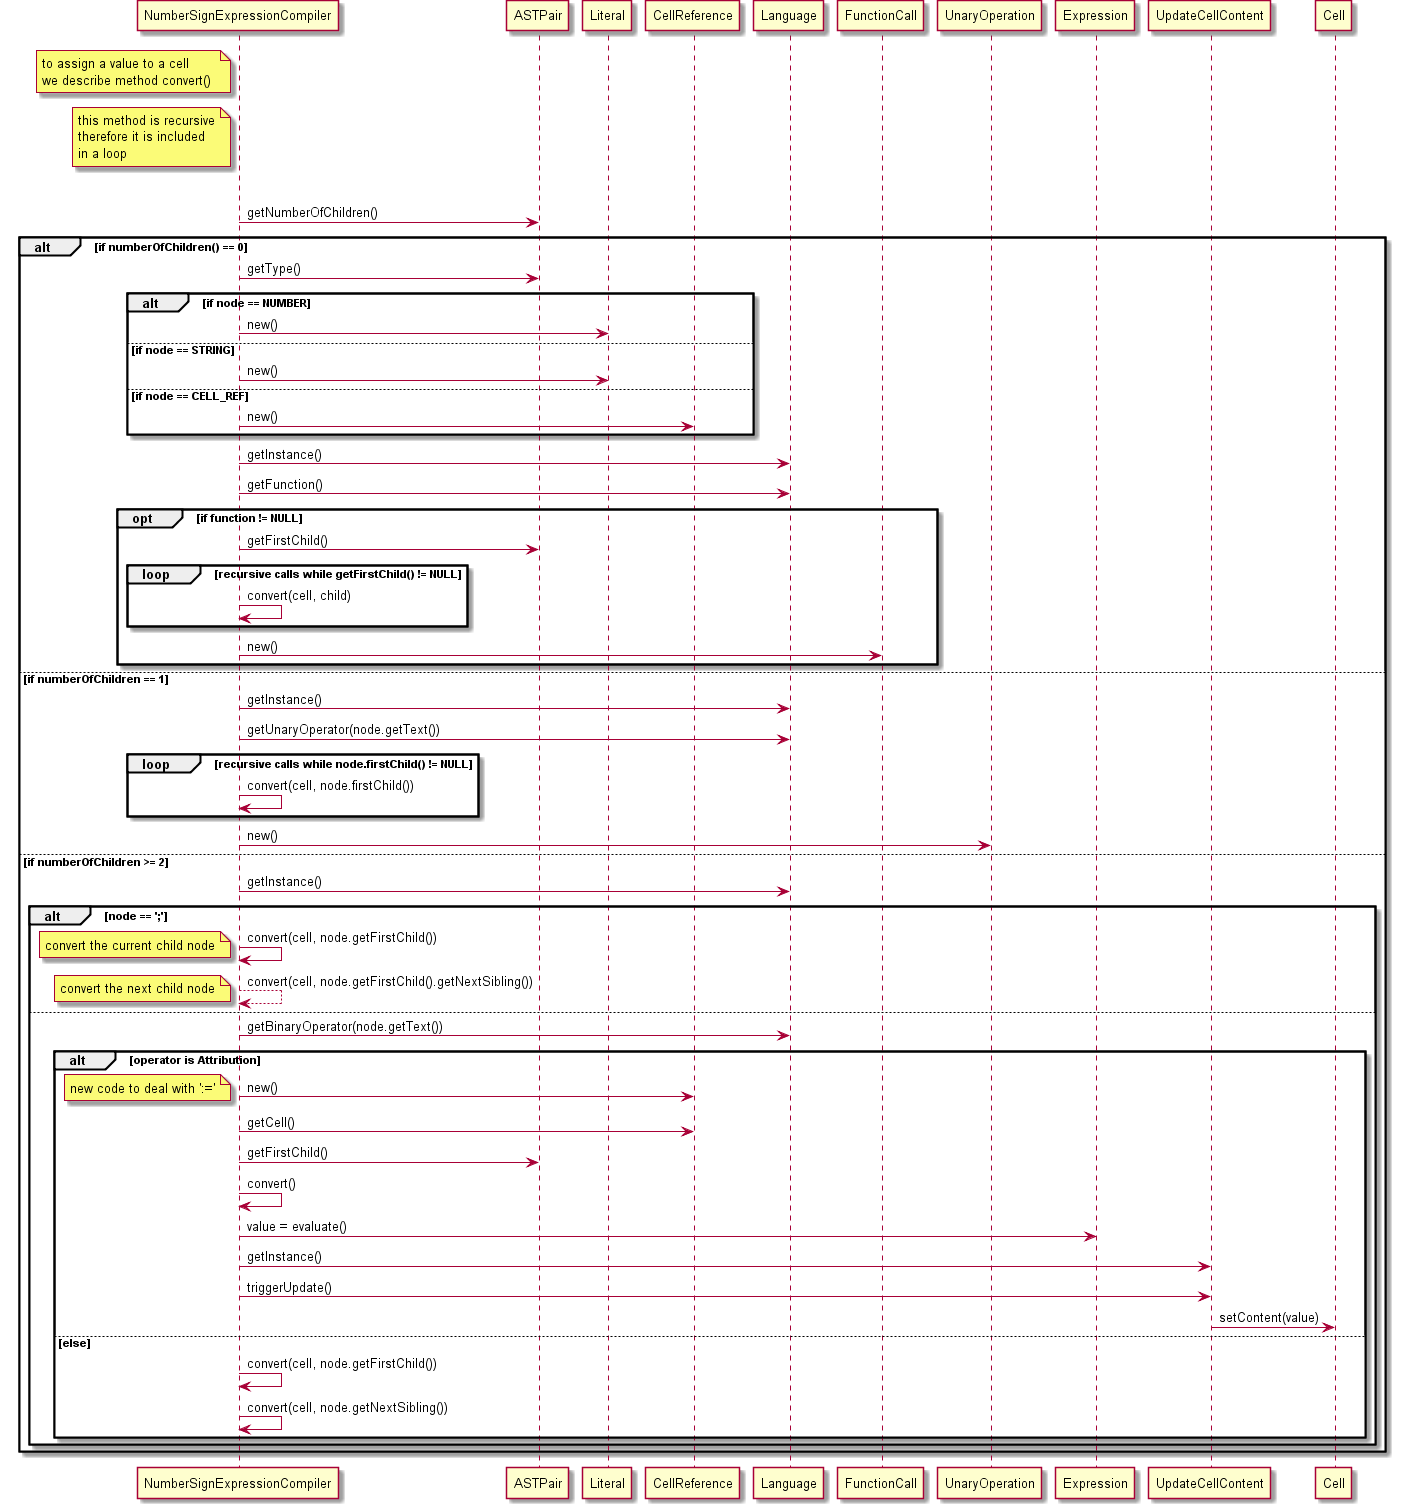
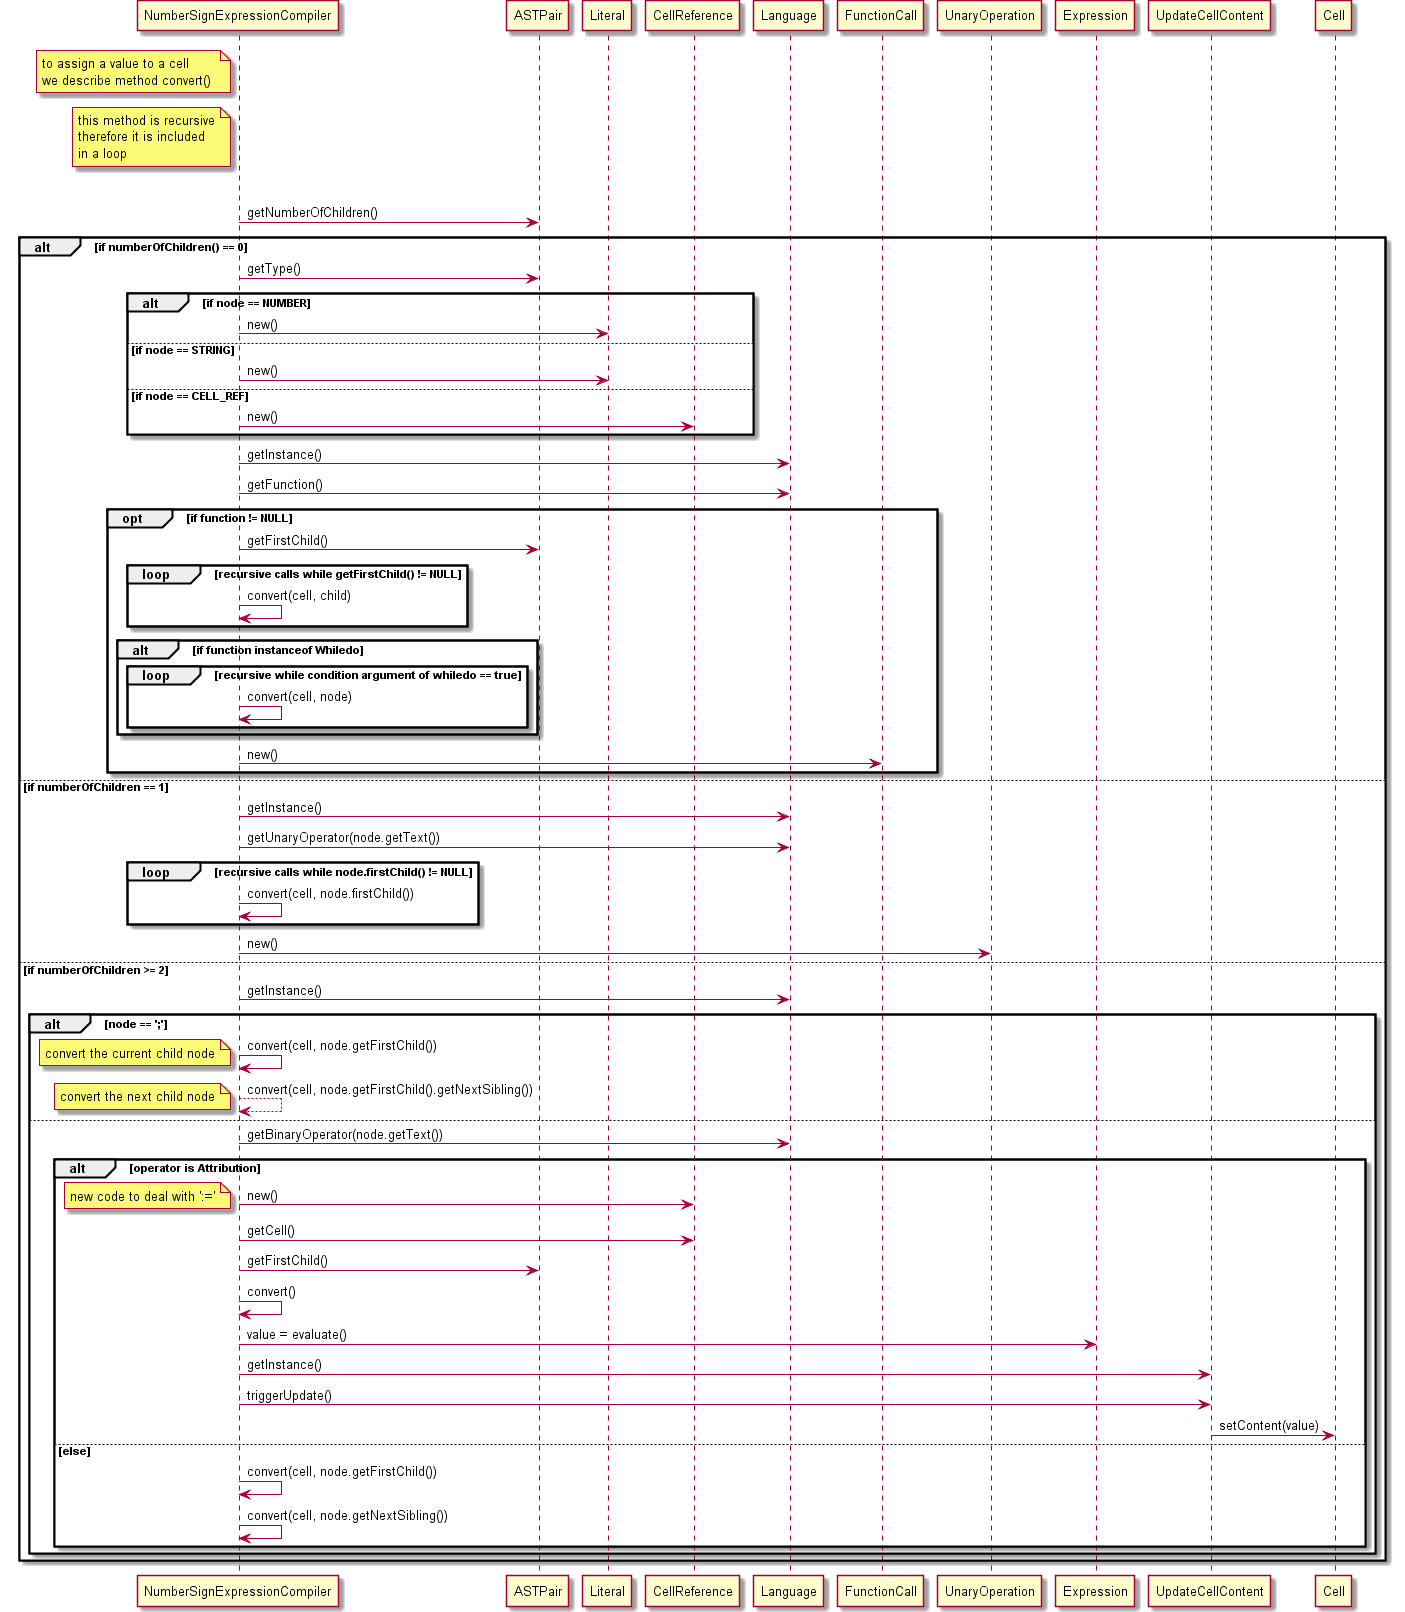
1100859: Updated sequence diagram of the compiler of the language and updated class diagram ref #11 #12

diff --git a/docs/1100859/rail3_w2/Uml.java b/docs/1100859/rail3_w2/Uml.java
@@ -61,6 +61,13 @@ loop recursive calls depending on the depth of the generated ANTLR AST
    loop recursive calls while getFirstChild() != NULL
     NumberSignExpressionCompiler -> NumberSignExpressionCompiler: convert(cell, child)
    end
+   
+   alt if function instanceof Whiledo
+   	loop recursive while condition argument of whiledo == true
+   	 NumberSignExpressionCompiler -> NumberSignExpressionCompiler : convert(cell, node)
+   	end
+   end
+   
    NumberSignExpressionCompiler -> FunctionCall: new()
   end
   else if numberOfChildren == 1
@@ -101,6 +108,72 @@ loop recursive calls depending on the depth of the generated ANTLR AST
 end
 @enduml
 
+@startuml doc-files/class_diagram.png
+class Whiledo {
+	+{static}FunctionParameter[] parameters
+	+Whiledo()
+	+String getIdentifier()
+	+Value applyTo(Expression[] args)
+	+FunctionParameter[] getParameters()
+	+boolean isVarArg()
+}
+interface Function {
+}
+
+CellEditor --o Cell
+CellEditor: fireEditingStopped()
+Cell <|-- CellImpl
+Cell: setContent()
+CellImpl: Formula formula
+CellImpl: getFormula(): Formula
+CellImpl: setContent(String content): void
+CellImpl: storeContent(): void
+CellImpl: fireContentChanged(): void
+CellImpl --o Formula
+CellImpl -- FormulaCompiler
+FormulaCompiler: getInstance()
+FormulaCompiler: compile(this, String content)
+FormulaCompiler o-- ExpressionCompiler
+ExpressionCompiler <|-- ExcelExpressionCompiler
+ExpressionCompiler <|-- NumberSignExpressionCompiler
+ExpressionCompiler: getStarter()
+ExpressionCompiler: compile(Cell cell, String source)
+NumberSignExpressionCompiler --o NumberSignFormulaLexer
+NumberSignExpressionCompiler -- Language
+NumberSignExpressionCompiler -- UpdateCellContent
+Cell -- UpdateCellContent
+NumberSignExpressionCompiler -- CellReference
+NumberSignFormulaLexer --o NumberSignFormulaParser
+NumberSignFormulaParser --o ASTPair
+NumberSignFormulaParserTokenTypes <|-- NumberSignFormulaParser
+FormulaCompiler -- Formula
+Formula --|> Expression
+Literal --|> Expression
+Expression o-- UnaryOperation
+NumberSignFormulaParser: expression()
+NumberSignFormulaParser: match(NUMBER_SIGN)
+NumberSignFormulaParser: comparison()
+NumberSignFormulaParser: match(EOF)
+NumberSignFormulaParser: getAST()
+NumberSignFormulaParser --|> antlr.LLkParser
+NumberSignExpressionCompiler: convert() 
+Formula: getReferences()
+Formula: evaluate()
+Expression: evaluate()
+ASTPair: getNumberOfChildren()
+ASTPair: getType()
+ASTPair: getFirstChild()
+Language: getInstance()
+Language: getFunction()
+Language: getUnaryOperator()
+Language: getBinaryOperator()
+CellReference: getCell()
+UpdateCellContent: getInstance()
+UpdateCellContent: triggerUpdate()
+Function <|.. Whiledo
+@enduml
+
+
 */
 
 /**
@@ -124,6 +197,11 @@ end
 *<b>Sequence Diagram - Implementation of loops</b>
 *</p>
 *<img src="doc-files/sd_cell_lang.png">
+*
+**<p>
+*<b>Class Diagram</b>
+*</p>
+*<img src="doc-files/class_diagram.png">
 *
 *
 * @author Andre
